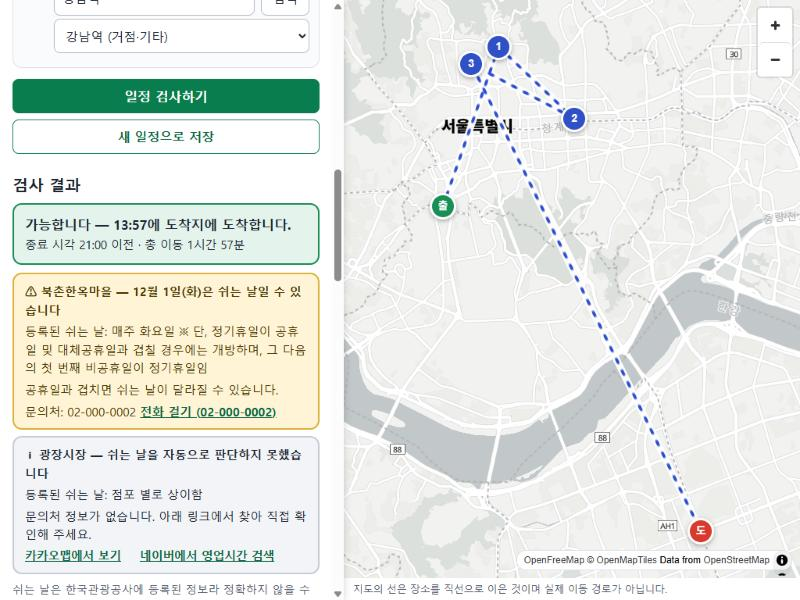
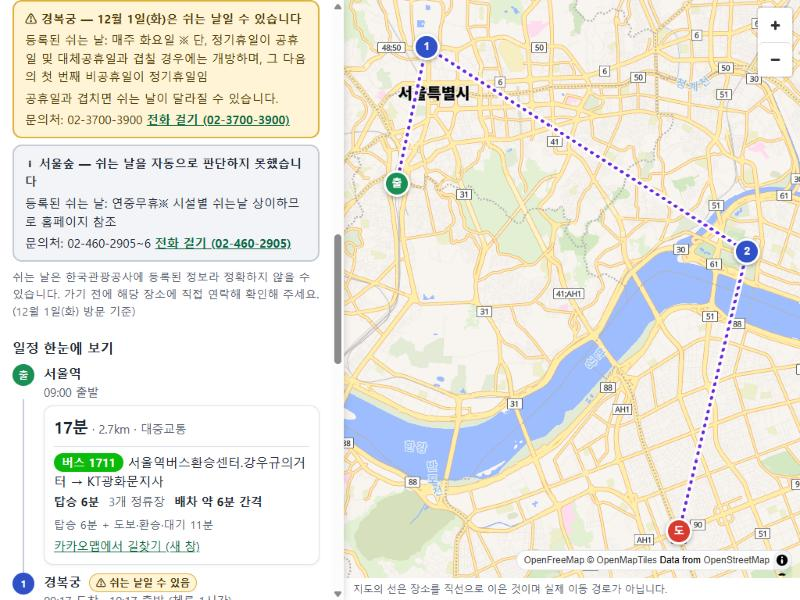
쉬는 날 검증 근거를 배포 사이트의 실제 데이터 캡처로 교체(화요일 경고, 목요일 해제)

diff --git a/README.md b/README.md
@@ -79,7 +79,7 @@
 | 날짜를 1년 뒤로 설정(대중교통) | 날짜 범위 안내가 나오고 날짜 칸으로 초점이 간다 | 대중교통에서 2027-10-17로 검사하니 “대중교통 이동시간은 오늘 기준 약 6일 전부터 99일 뒤까지의 날짜만 조회할 수 있습니다. 날짜를 바꿔 주세요.” 안내가 떴고, 날짜 칸에 초점(주황 테두리)이 갔다. 자동차에서는 날짜를 쓰지 않아 같은 날짜도 정상 처리됐다 | 통과. 자동차에서 날짜가 반영되지 않는다는 설명이 없어서 이동수단별 안내 문구를 추가함 | [12-날짜범위.png](docs/evidence/12-날짜범위.png) |
 | 휴대전화 폭 360px | 가로 스크롤 없이 모두 보인다 | 개발자 도구에서 폭을 360으로 맞춰 확인했다. 가로 스크롤이 생기지 않았고, 이동수단 탭, 날짜·시각 칸, 출발지 검색칸, 경유지 줄(순서 버튼 ▲▼와 삭제 버튼), 경유지 추가칸이 모두 화면 폭 안에 들어왔다. 지도가 위, 입력이 아래로 쌓여 보였고 “검사 완료: 일정이 가능합니다” 안내도 읽혔다 | 통과 | [14-모바일360.png](docs/evidence/14-모바일360.png) |
 | 키보드만으로 조작(Tab, Enter, 위·아래 버튼) | 초점이 보이고 순서 변경까지 가능하다 | Tab으로 칸을 이동하자 주황색 굵은 테두리가 따라왔다. 경유지 순서 버튼에서 Enter로 경복궁이 1번에서 2번으로 내려갔고, 초점은 사라지지 않고 같은 항목의 ▲ 버튼에 남아 계속 조작할 수 있었다(맨 아래가 되어 ▼ 버튼은 비활성으로 바뀜) | 통과 | [15-키보드.png](docs/evidence/15-키보드.png) |
-| 쉬는 날 경고: 방문 날짜를 화요일(2026-12-01)로 두고 경유지 3곳(화요일 휴무, “점포 별로 상이함”, 연중무휴) 추가 | 화요일에 쉬는 곳만 경고가 나오고, 판단하지 못한 곳은 “확인 필요”로 원문이 나온다. 직접 연락해 확인하라는 안내와 문의처가 함께 나온다. 가능/불가능 판정은 그대로다 | 화요일 휴무 장소에 노란 경고 카드(“12월 1일(화)은 쉬는 날일 수 있습니다”)와 일정 옆 “쉬는 날일 수 있음” 표시가 떴고, 문의처 “전화 걸기” 링크가 있었다. “점포 별로 상이함” 장소는 회색 “판단하지 못했습니다” 카드에 원문과 카카오맵·네이버 링크가 나왔다. 아래에 “정확하지 않을 수 있습니다. 직접 연락해 확인해 주세요” 안내가 있었고 판정은 “가능합니다” 그대로였다. 날짜를 목요일로 바꾸면 경고·표시가 사라지고 안내 문구만 남았다 | 통과. 가짜 데이터 모드(?mock=1)에서 확인했다. 실제 한국관광공사 문자열은 조회한 34건을 단위 테스트에 그대로 넣어 확인함 | [18-쉬는날경고.png](docs/evidence/18-쉬는날경고.png) |
+| 쉬는 날 경고: 배포 사이트(wishroute-rho.vercel.app)에서 실제 한국관광공사 데이터로 서울역 → 경복궁(매주 화요일 휴무) → 서울숲(“연중무휴 ※ 시설별 쉬는날 상이…”) → 강남역 2호선, 대중교통, 방문 날짜를 화요일(2026-12-01)로 설정 | 화요일에 쉬는 곳만 경고가 나오고, 판단하지 못한 곳은 “확인 필요”로 원문이 나온다. 직접 연락해 확인하라는 안내와 문의처가 함께 나온다. 가능/불가능 판정은 그대로다 | 경복궁에 노란 경고 카드 “12월 1일(화)은 쉬는 날일 수 있습니다”(등록된 원문 “매주 화요일 ※ 단, 정기휴일이 공휴일 및 대체공휴일과 겹칠 경우…”와 “공휴일과 겹치면 쉬는 날이 달라질 수 있습니다”)와 일정 옆 “쉬는 날일 수 있음” 표시가 떴고, 문의처 02-3700-3900과 “전화 걸기” 링크가 있었다. 서울숲은 회색 “쉬는 날을 자동으로 판단하지 못했습니다” 카드에 원문과 문의처(02-460-2905~6) 링크가 나왔다. 아래에 “정확하지 않을 수 있습니다. 가기 전에 해당 장소에 직접 연락해 확인해 주세요. (12월 1일(화) 방문 기준)” 안내가 있었고 판정은 “가능합니다”였다. 같은 일정을 목요일(2026-12-03)로 바꾸고 새로고침하면 경복궁 경고와 일정 옆 표시가 사라지고 서울숲 카드와 안내(12월 3일(목) 방문 기준)만 남았다(경복궁 확인 목록 문구 “등록된 정보로는 방문일 12월 3일(목)이 쉬는 날이 아닙니다. 공휴일에는 달라질 수 있습니다.”는 화면 글자로 확인) | 통과. 처음에는 가짜 데이터 모드에서만 확인했고, 배포 뒤 실제 데이터로 다시 확인해 캡처를 교체함. 쉬는 날 글자 판독은 조회한 실제 문자열 34건을 단위 테스트에 넣어 확인함 | [18-쉬는날경고.png](docs/evidence/18-쉬는날경고.png), [18b-쉬는날경고해제.png](docs/evidence/18b-쉬는날경고해제.png) |
 | 실패 상황 ①: 페이지를 연 뒤 서버 연결을 끊고 출발지 “서울역” 검색 | 실패 이유와 할 일이 안내되고, 다시 시도할 수 있다 | 빨간 안내 상자에 “문제가 생겼습니다 — 서버에 연결하지 못했습니다. 인터넷 연결을 확인한 뒤 다시 시도해 주세요.”가 뜨고 “다시 시도” 버튼이 있었다. 화면은 깨지지 않았고 입력한 글자도 그대로였다 | 통과. 연결 끊김은 내 컴퓨터에서 서버를 꺼서 재현했다(공유기·와이파이를 끈 것은 아님) | [16-서버연결실패.png](docs/evidence/16-서버연결실패.png) |
 | 실패 상황 ②: 배경 지도 서버에 접속할 수 없음(지도 주소를 접속 불가 주소로 바꿔 시험) | 지도가 안 떠도 일정 검사와 핀·선은 쓸 수 있고, 지도 문제라는 안내가 나온다 | 일정 검사는 정상이었고 출발·도착 핀도 떴다. 그러나 지도는 빈 흰 화면이고 경로선이 없었으며 안내도 없었다. 고친 뒤에는 지도 아래에 “배경 지도를 불러오지 못해 빈 배경으로 보여 드립니다…” 안내가 한 번 뜨고, 회색 빈 배경 위에 핀과 점선이 그려졌다 | 처음에는 실패. 경로선이 지도 로딩 완료에만 묶여 있고 안내가 없어서 고침. 정상일 때는 안내 없이 이전과 같음을 확인함 | [17-지도서버실패-수정전.png](docs/evidence/17-지도서버실패-수정전.png), [17-지도서버실패-수정후.png](docs/evidence/17-지도서버실패-수정후.png) |
 

diff --git a/docs/verification.md b/docs/verification.md
@@ -17,6 +17,6 @@
 | 날짜를 1년 뒤로 설정(대중교통) | 날짜 범위 안내가 나오고 날짜 칸으로 초점이 간다 | 대중교통에서 2027-10-17로 검사하니 "대중교통 이동시간은 오늘 기준 약 6일 전부터 99일 뒤까지의 날짜만 조회할 수 있습니다. 날짜를 바꿔 주세요." 안내가 떴고, 날짜 칸에 초점(주황 테두리)이 갔다. 자동차에서는 날짜를 쓰지 않아 같은 날짜도 정상 처리됐다 | 통과. 자동차에서 날짜가 반영되지 않는다는 설명이 없어서 이동수단별 안내 문구를 추가함 | docs/evidence/12-날짜범위.png |
 | 휴대전화 폭 360px | 가로 스크롤 없이 모두 보인다 | 개발자 도구에서 폭을 360으로 맞춰 확인했다. 가로 스크롤이 생기지 않았고, 이동수단 탭, 날짜·시각 칸, 출발지 검색칸, 경유지 줄(순서 버튼 ▲▼와 삭제 버튼), 경유지 추가칸이 모두 화면 폭 안에 들어왔다. 지도가 위, 입력이 아래로 쌓여 보였고 "검사 완료: 일정이 가능합니다" 안내도 읽혔다 | 통과 | docs/evidence/14-모바일360.png |
 | 키보드만으로 조작(Tab, Enter, 위·아래 버튼) | 초점이 보이고 순서 변경까지 가능하다 | Tab으로 칸을 이동하자 주황색 굵은 테두리가 따라왔다. 경유지 순서 버튼에서 Enter로 경복궁이 1번에서 2번으로 내려갔고, 초점은 사라지지 않고 같은 항목의 ▲ 버튼에 남아 계속 조작할 수 있었다(맨 아래가 되어 ▼ 버튼은 비활성으로 바뀜) | 통과 | docs/evidence/15-키보드.png |
-| 쉬는 날 경고: 방문 날짜를 화요일(2026-12-01)로 두고 경유지 3곳(화요일 휴무, "점포 별로 상이함", 연중무휴) 추가 | 화요일에 쉬는 곳만 경고가 나오고, 판단하지 못한 곳은 "확인 필요"로 원문이 나온다. 직접 연락해 확인하라는 안내와 문의처가 함께 나온다. 가능/불가능 판정은 그대로다 | 화요일 휴무 장소에 노란 경고 카드("12월 1일(화)은 쉬는 날일 수 있습니다")와 일정 옆 "쉬는 날일 수 있음" 표시가 떴고, 문의처 "전화 걸기" 링크가 있었다. "점포 별로 상이함" 장소는 회색 "판단하지 못했습니다" 카드에 원문과 카카오맵·네이버 링크가 나왔다. 아래에 "정확하지 않을 수 있습니다. 직접 연락해 확인해 주세요" 안내가 있었고 판정은 "가능합니다" 그대로였다. 날짜를 목요일로 바꾸면 경고·표시가 사라지고 안내 문구만 남았다 | 통과. 가짜 데이터 모드(?mock=1)에서 확인했다. 실제 한국관광공사 문자열은 조회한 34건을 단위 테스트에 그대로 넣어 확인함 | docs/evidence/18-쉬는날경고.png |
+| 쉬는 날 경고: 배포 사이트(wishroute-rho.vercel.app)에서 실제 한국관광공사 데이터로 서울역 → 경복궁(매주 화요일 휴무) → 서울숲("연중무휴 ※ 시설별 쉬는날 상이…") → 강남역 2호선, 대중교통, 방문 날짜를 화요일(2026-12-01)로 설정 | 화요일에 쉬는 곳만 경고가 나오고, 판단하지 못한 곳은 "확인 필요"로 원문이 나온다. 직접 연락해 확인하라는 안내와 문의처가 함께 나온다. 가능/불가능 판정은 그대로다 | 경복궁에 노란 경고 카드 "12월 1일(화)은 쉬는 날일 수 있습니다"(등록된 원문 "매주 화요일 ※ 단, 정기휴일이 공휴일 및 대체공휴일과 겹칠 경우…"와 "공휴일과 겹치면 쉬는 날이 달라질 수 있습니다")와 일정 옆 "쉬는 날일 수 있음" 표시가 떴고, 문의처 02-3700-3900과 "전화 걸기" 링크가 있었다. 서울숲은 회색 "쉬는 날을 자동으로 판단하지 못했습니다" 카드에 원문과 문의처(02-460-2905~6) 링크가 나왔다. 아래에 "정확하지 않을 수 있습니다. 가기 전에 해당 장소에 직접 연락해 확인해 주세요. (12월 1일(화) 방문 기준)" 안내가 있었고 판정은 "가능합니다"였다. 같은 일정을 목요일(2026-12-03)로 바꾸고 새로고침하면 경복궁 경고와 일정 옆 표시가 사라지고 서울숲 카드와 안내(12월 3일(목) 방문 기준)만 남았다(경복궁 확인 목록 문구 "등록된 정보로는 방문일 12월 3일(목)이 쉬는 날이 아닙니다. 공휴일에는 달라질 수 있습니다."는 화면 글자로 확인) | 통과. 처음에는 가짜 데이터 모드에서만 확인했고, 배포 뒤 실제 데이터로 다시 확인해 캡처를 교체함. 쉬는 날 글자 판독은 조회한 실제 문자열 34건을 단위 테스트에 넣어 확인함 | docs/evidence/18-쉬는날경고.png, docs/evidence/18b-쉬는날경고해제.png |
 | 실패 상황 ①: 페이지를 연 뒤 서버 연결을 끊고 출발지 "서울역" 검색 | 실패 이유와 할 일이 안내되고, 다시 시도할 수 있다 | 빨간 안내 상자에 "문제가 생겼습니다 — 서버에 연결하지 못했습니다. 인터넷 연결을 확인한 뒤 다시 시도해 주세요."가 뜨고 "다시 시도" 버튼이 있었다. 화면은 깨지지 않았고 입력한 글자도 그대로였다 | 통과. 연결 끊김은 내 컴퓨터에서 서버를 꺼서 재현했다(공유기·와이파이를 끈 것은 아님) | docs/evidence/16-서버연결실패.png |
 | 실패 상황 ②: 배경 지도 서버에 접속할 수 없음(지도 주소를 접속 불가 주소로 바꿔 시험) | 지도가 안 떠도 일정 검사와 핀·선은 쓸 수 있고, 지도 문제라는 안내가 나온다 | 일정 검사는 정상이었고 출발·도착 핀도 떴다. 그러나 지도는 빈 흰 화면이고 경로선이 없었으며 안내도 없었다. 고친 뒤에는 지도 아래에 "배경 지도를 불러오지 못해 빈 배경으로 보여 드립니다…" 안내가 한 번 뜨고, 회색 빈 배경 위에 핀과 점선이 그려졌다 | 처음에는 실패. 경로선이 지도 로딩 완료에만 묶여 있고 안내가 없어서 고침. 정상일 때는 안내 없이 이전과 같음을 확인함 | docs/evidence/17-지도서버실패-수정전.png, docs/evidence/17-지도서버실패-수정후.png |

diff --git a/docs/ai-log.md b/docs/ai-log.md
@@ -143,3 +143,7 @@
 - 테스트: 저장 키 이전 테스트 3개 추가(옛 키에서 옮기기, 새 키가 있으면 옛 키 무시, 옛 키가 깨져도 안전). 총 103개 통과. 실제 브라우저(가짜 데이터 모드)에서 옛 키에 일정을 넣고 새로고침하면 "저장한 일정 1"로 나오고 새 키에 저장되며 옛 키는 남는 것을 확인.
 - 알아둘 점: 브라우저 저장은 주소(origin)별이라 새 주소에서는 옛 주소에 저장한 일정이 보이지 않음(공유 링크로 옮겨야 함). 옛 주소는 이미 공유한 링크 때문에 유지. 같은 코드가 옛 주소에도 배포되므로 옛 주소에서는 저장 키 이전으로 일정이 그대로 보임.
 - 확인하지 못한 것: 배포 후 `MobileApp` 변경이 TourAPI 검색에 영향이 없는지(배포 사이트에서 경복궁 검색으로 확인 필요). 이 PC의 로컬 폴더 이름(`itda`)은 그대로.
+## 쉬는 날 검증 근거를 실제 데이터로 교체 (2026-11-24)
+- 이유: 검증 표의 쉬는 날 캡처(`18-쉬는날경고.png`)가 가짜 데이터 모드(`?mock=1`)로 찍은 것이라, 실제 데이터에서도 되는지 근거가 약했음.
+- 한 일: 배포 사이트(wishroute-rho.vercel.app)에서 서울역 → 경복궁 → 서울숲 → 강남역 2호선(대중교통) 일정을 열어 화요일(2026-12-01)과 목요일(2026-12-03)을 캡처. `18-쉬는날경고.png`를 화요일 실제 데이터 캡처로 교체하고 `18b-쉬는날경고해제.png`(목요일, 경복궁 경고 해제)를 추가. README와 `docs/verification.md`의 쉬는 날 줄을 실제 확인 내용으로 다시 씀(경고 카드 문구, 문의처 02-3700-3900·02-460-2905~6, 판정은 "가능합니다" 그대로, 목요일에 경고 해제).
+- 주의: 같은 탭에서 주소의 # 뒷부분만 바꾸면 일정이 다시 복원되지 않아 날짜를 바꿀 때마다 새로고침함. 목요일 경복궁 확인 목록 문구는 캡처가 아니라 화면 글자(JS)로 확인.
